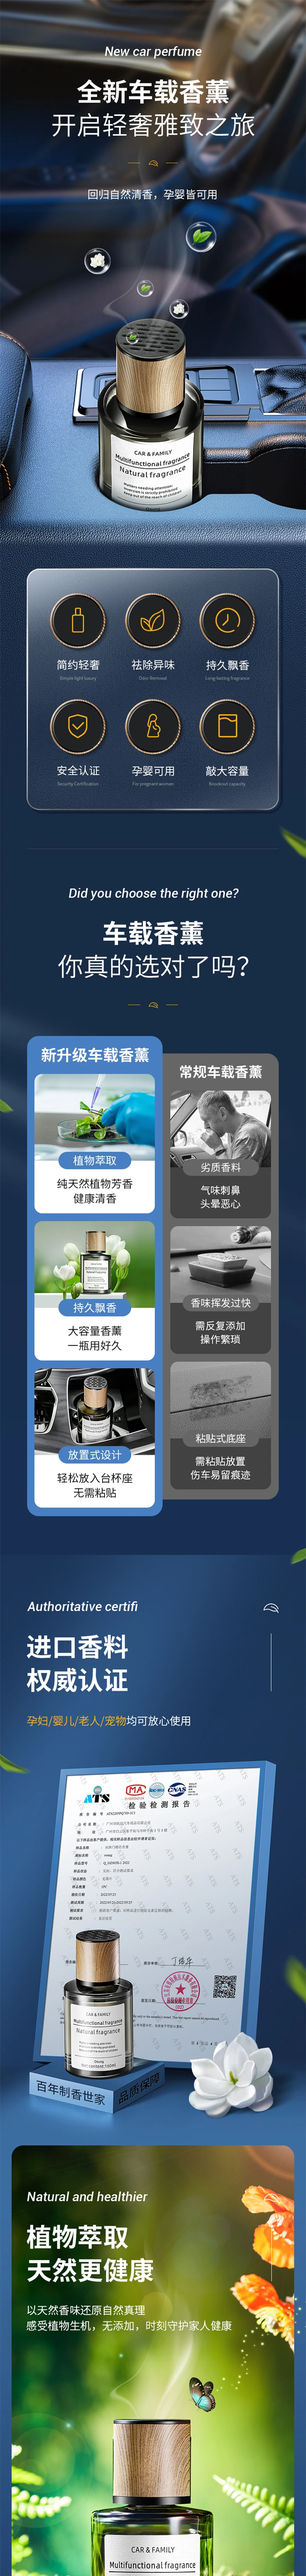
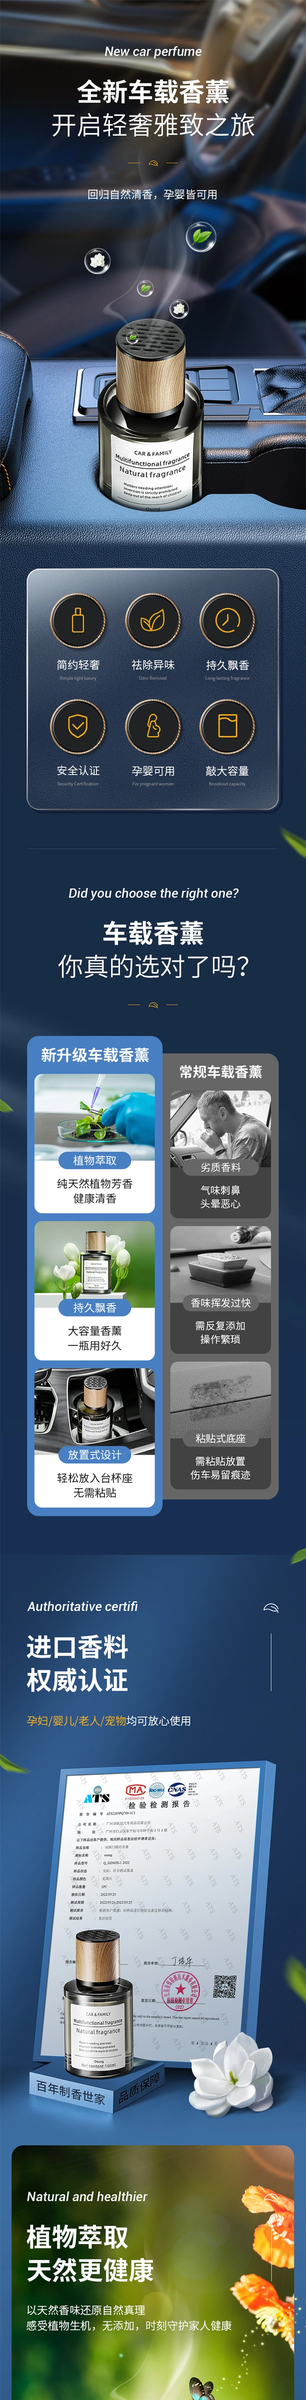
Refine car aroma project layout

diff --git a/app/globals.css b/app/globals.css
@@ -297,7 +297,7 @@ a { color:inherit; text-decoration:none; }
 .pylArtwork--car { background:linear-gradient(180deg,#07172b,#030a13); }
 .seniorArtworkSegment { aspect-ratio:790/6222; }
 .pylArtwork--senior { background:linear-gradient(180deg,#08213a,#061523); }
-.aromaRefillArtworkSegment { aspect-ratio:790/6648; }
+.aromaRefillArtworkSegment { aspect-ratio:790/6194; }
 .aromaRefillArtworkSegment img { transform:none; }
 .pylArtwork--aroma-refill { background:linear-gradient(180deg,#082746,#04111f); }
 .pylBackLink { display:block; width:fit-content; margin:56px auto 0; padding-bottom:8px; border-bottom:1px solid #45474d; color:#a3a5aa; font-size:11px; }
